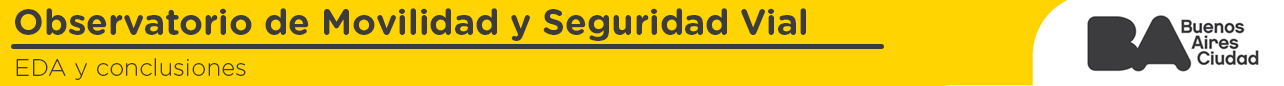
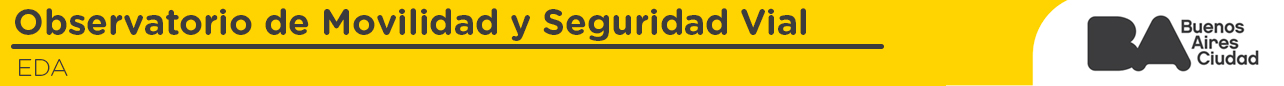
commit final

Changed region(s): [[0.0, 0.6744, 0.2181, 0.8837], [0.0312, 0.907, 0.0623, 0.9302]]

diff --git a/README.md b/README.md
@@ -23,6 +23,9 @@
 </p>
 <br>
 
+<p align='center'>
+<img src ="scr\Logotipo_de_la_Ciudad_de_Buenos_Aires.svg (1).png" height=100>
+</p>
 <h1>Glosario del README</h1>
 
 * Indice
@@ -31,11 +34,12 @@
     * EDA
     * Hipotesis y  Conclusiones
 
-<p align='center'>
-<img src ="scr\Logotipo_de_la_Ciudad_de_Buenos_Aires.svg (1).png" height=100>
+<br>
+
+<p align='center' {#ETL}>
+<img src ="scr\barraROL.jpg">
 <p>
- <p style="text-align: left; border: none;">
- <h1 id="intro">Rol a desarrollar</h1>
+<h1></h1>
 <h3>
 El Observatorio de Movilidad y Seguridad Vial (OMSV), centro de estudios que se encuentra bajo la órbita de la Secretaría de Transporte del Gobierno de la Ciudad Autónoma de Buenos Aires, nos solicita la elaboración de un proyecto de anális de datos, con el fin de generar información que le permita a las autoridades locales tomar medidas para disminuir la cantidad de víctimas fatales de los siniestros viales. Para ello, nos disponibilizan un dataset sobre homicidios en siniestros viales acaecidos en la Ciudad de Buenos Aires durante el periodo 2016-2021. Este dataset se encuentra en formato xlsx y contiene :<b> hechos y víctimas </b>. Asimismo, observarán que incluye otras dos hojas adicionales de diccionarios de datos, que les podrá servir de guía para un mayor entendimiento de la data compartida.
 </h3>
@@ -60,8 +64,8 @@ El Observatorio de Movilidad y Seguridad Vial (OMSV), centro de estudios que se 
 <p align='center' {#ETL}>
 <img src ="scr\barraETL.jpg">
 <p>
-<br>
 
+<h1></h1>
 <p align='center'>
 <img src ="scr\archivos.jpg">
 <img src ="scr\etl.jpg">
@@ -200,28 +204,51 @@ El Observatorio de Movilidad y Seguridad Vial (OMSV), centro de estudios que se 
 
 <h3>En este podemos ver como la mayor cantidad de victimas son las motos, a continuacion veremos las hipotesis y conclusiones que sacamos del EDA y Power BI</h3>
 
-<h1>Hipotesis y Conclusiones</h1>
+<br>
+<p align='center' {#ETL}>
+<img src ="scr\barraHipo.jpg">
+<p>
+<h1></h1>
+
 
 <h3>Habiendo realizado el EDA, nos permite anticipar los resultados para un posterior analisis en Power BI, de esta manera llegamos a las siguientes hipotesis y posteriores concluciones</h3>
 
 <h2>Utimo tremestre 2021</h2>
 
 <h3>1. Analizar con un KPI, si los accidentes viales bajaron un 10% respecto al ultimo semestre de 2021, en caso de ser negativo, plantear soluciones para reducir los siniestros</h3>
+<br>
 
 <p align='center'>
 <img src ="scr\analisis\KPI10.jpg">
 <p>
+
 <br>
 <h3>Como se ve en el KPI, no logreamos alcanzar la reduccion que planteamos, debido que fue 2021 donde recien se volvia a activar de a poco la actividad comercial y de libre circulacion luego de la cuerentena por el COVID 19, la tasa de accidentes es mucha, de todas formas, hay que hacer una capcitacion vial a los conductores, sobre todo de motos, que siempre registran la mayor cantidad de siniestros, la mayoria son repartidores de aplicaciones como Pedidos Ya y otra parte hace cadeteria, ya sea de oficina como Mercado Libre, la que desde 2020 crecio exponencialmente gracias a la cuarentena. Por ultimo reforzar los controles de inspectores de transito para que se vea el estado en que manejan(con o sin casco, alcoholizados, vehiculo en condiciones) </h3>
+<br>
 
 <h3>2. Son los Adultos Mayores, propensos a accidentes viales y en que cirscunstancia suceden estos siniestros, tomamos la edad jubilatoria que en caso de las mujeres es 60 años y hombres 65 años, nuestra medida seran los 60 años. </h3>
-
+<br>
 <p align='center'>
 <img src ="scr\analisis\EtarioUltimo.jpg">
 <p>
 <br>
 
+<h3>Los resultados que arroja son interesantes, nos muestra que la mayoria, medianamente acorde a su edad, son siniestros ocurridos en avenidas y siendo peatones en su mayoria, como conductores de auto y bicicleta en menor medida, pero tambien tomemos en cuenta que en epocas de cuarentena, la mayoria de las personas salian caminando a supermercados y locales de su propia zona, debido a la restriccion que se encontraba vigente.<br> La mayor cantidad junta de accidentes es la Comuna 1, como casi en todo los analisis, puede deberse que el cruce de la avenida 9 de julio es complicado debido al ancho de esta, personas con movilidad mas reducida encuentran complicado el cruce a tiempo, y en otros, cruzar por lugares fuera de las sendas peatonales. Una solucion posible, es en los puntos mas neuralgicos, poner puentes peatonales</h3>
+<br>
+
 <h3>3. En contraste con la anterior, son los jovenes propensos a accidentes viales y en que cirscuntancia suceden, tomaremos la mayoria de edad que es 18 años hasta los 25 años, sabiendo que los planes de medicina toman estas edades como juventud </h3>
+<br>
+
+<p align='center'>
+<img src ="scr\analisis\EtarioUltimo18.jpg">
+<p>
+<br>
+
+<h3>En este caso como el anterior, vemos que la mayor incidencia es en conductores de moto, esto debido en su mayoria a jovenes que buscan una forma de hacer dinero sin experiencia laboral y la mayoria tiene como un medio economico de transporte, una moto.
+<br>
+Se podrian brindar cursos de manejo responsable en moto, ya que a la fecha, no existen
+</h3>
+<br>
 
 <h3>4. Cual es la Comuna con mayor cantidad de accidentes y tratar de analizar el porque de este fenomeno</h3>
 
